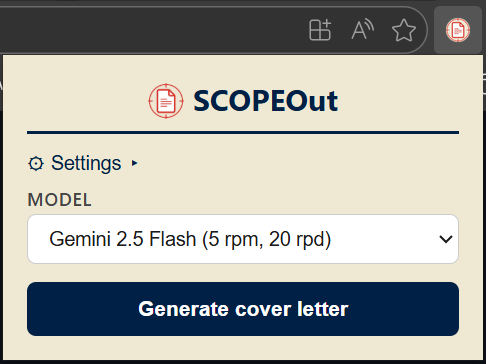
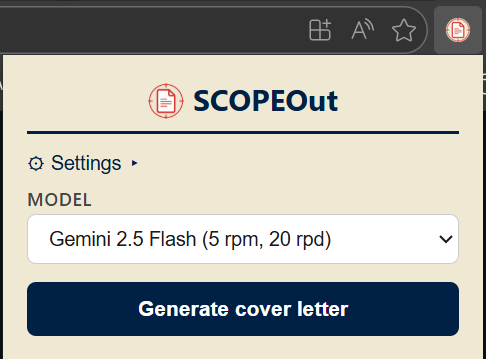
Reorganized app preview

diff --git a/README.md b/README.md
@@ -25,12 +25,12 @@ An extension that generates custom cover letters for [SCOPE](https://scope.scien
 
 ## 👀 App Preview
 <div align="center">
-  <img src="app_preview/popup.png" alt="SCOPEOut Generated Cover Letter" height="250">
+  <img src="app_preview/popup.png" alt="SCOPEOut Popup" height="247">
+  <img src="app_preview/prompt_editor_page.png" alt="SCOPEOut Prompt Editor Page" height="247">
 </div>
 
 <div align="center">
-  <img src="app_preview/prompt_editor_page.png" alt="SCOPEOut Popup" width="395" style="margin: 0 20px 0 0;">
-  <img src="app_preview/generated_cover_letter.png" alt="SCOPEOut Prompt Editor Page" width="395">
+  <img src="app_preview/generated_cover_letter.png" alt="SCOPEOut Generated Cover Letter" width="800">
 </div>
 
 ## ✨ Features
